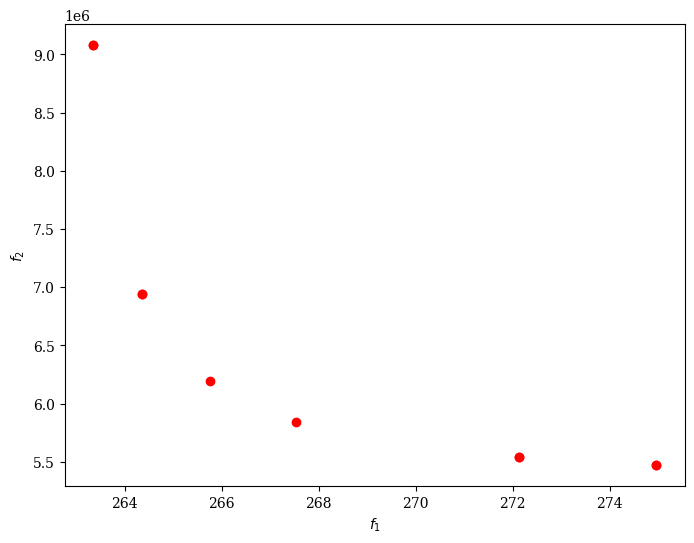
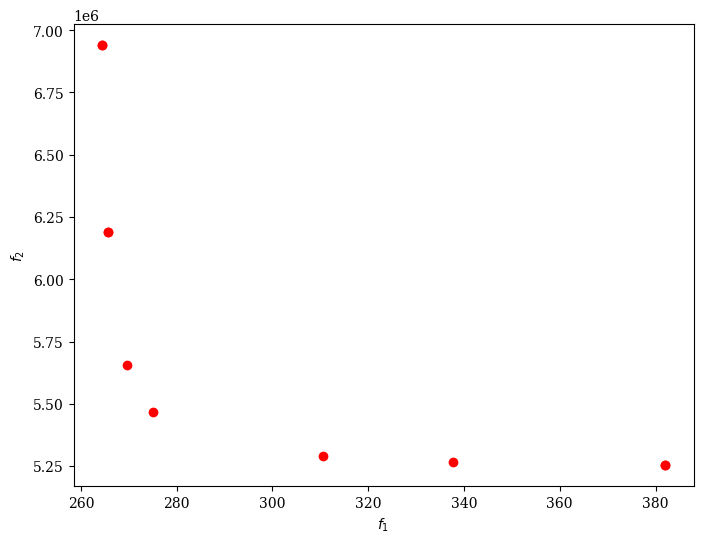
Continuous update of plot and new point generation

diff --git a/src/interactive_plot.py b/src/interactive_plot.py
@@ -1,23 +1,28 @@
-from dash import Dash, dcc, html, Input, Output
+import dash
+from dash import dcc, html, State
+from dash.dependencies import Input, Output
+import pandas as pd
 import plotly.express as px
+import os
 
-class PlotLauncher():
-    def __init__(self, df, x_axis: str, y_axis: str, sld_feat: list, color_feat: str, size_feat: str):
-        self.app = Dash("Dash app")
-        self.df = df
+class PlotLauncher:
+    def __init__(self, file_path: str, x_axis: str, y_axis: str, sld_feat: list, color_feat: str, size_feat: str):
+        self.app = dash.Dash("Dash app")
+        self.file_path = file_path
         self.x_axis = x_axis
         self.y_axis = y_axis
         self.sld_feat = sld_feat
         self.color_feat = color_feat
         self.size_feat = size_feat
 
+        # Load initial DataFrame
+        self.df = self.load_data()
+
         # Define the app layout
         self.app.layout = html.Div(
             [
-                html.H1(
-                    "Interactive scatter plot with Chiplet Design Results", 
-                    style={"textAlign": "center"}
-                ),
+                html.H1("Interactive Scatter Plot", style={"textAlign": "center"}),
+                
                 html.Div(
                     dcc.Graph(id="scatter-plot"), 
                     style={
@@ -27,69 +32,110 @@ class PlotLauncher():
                         "height": "600px",  # Adjust height as needed
                     },
                 ),
-                html.P(f"Filter by {self.sld_feat[0]}:", style={"textAlign": "center"}),
+
+                # Auto-reload every 5 seconds
+                dcc.Interval(id="interval-update", interval=5000, n_intervals=0),
+
+                # Sliders Container (Side by Side)
                 html.Div(
-                    dcc.RangeSlider(
-                        id="a-slider",
-                        min=min(self.df[self.sld_feat[0]]), # Adjust these values based on your data range
-                        max=max(self.df[self.sld_feat[0]]),
-                        step=0.01,
-                        marks={min(self.df[self.sld_feat[0]]): str(min(self.df[self.sld_feat[0]])), max(self.df[self.sld_feat[0]]): str(max(self.df[self.sld_feat[0]]))},
-                        value=[min(self.df[self.sld_feat[0]]), max(self.df[self.sld_feat[0]])],
-                    ),
+                    [
+                        # First Slider
+                        html.Div(
+                            [
+                                html.P(f"Filter by {self.sld_feat[0]}:", style={"textAlign": "center", "fontSize": 20}),
+                                dcc.RangeSlider(
+                                    id="a-slider",
+                                    min=min(self.df[self.sld_feat[0]]),
+                                    max=max(self.df[self.sld_feat[0]]),
+                                    step=0.01,
+                                    marks={
+                                        min(self.df[self.sld_feat[0]]): str(f"{min(self.df[self.sld_feat[0]]):.2f}"),
+                                        max(self.df[self.sld_feat[0]]): str(f"{max(self.df[self.sld_feat[0]]):.2f}")
+                                    },
+                                    value=[min(self.df[self.sld_feat[0]]), max(self.df[self.sld_feat[0]])],
+                                ),
+                            ],
+                            style={"width": "48%", "padding": "10px"}  # Each slider takes 48% width
+                        ),
+
+                        # Second Slider
+                        html.Div(
+                            [
+                                html.P(f"Filter by {self.sld_feat[1]}:", style={"textAlign": "center", "fontSize": 20}),
+                                dcc.RangeSlider(
+                                    id="b-slider",
+                                    min=min(self.df[self.sld_feat[1]]),
+                                    max=max(self.df[self.sld_feat[1]]),
+                                    step=0.01,
+                                    marks={
+                                        min(self.df[self.sld_feat[1]]): str(f"{min(self.df[self.sld_feat[1]]):.2f}"),
+                                        max(self.df[self.sld_feat[1]]): str(f"{max(self.df[self.sld_feat[1]]):.2f}")
+                                    },
+                                    value=[min(self.df[self.sld_feat[1]]), max(self.df[self.sld_feat[1]])],
+                                ),
+                            ],
+                            style={"width": "48%", "padding": "10px"}  # Same width as first slider
+                        ),
+                    ],
                     style={
-                        "padding-left": "80px",
-                        "padding-right": "80px",
+                        "display": "flex",
+                        "justifyContent": "space-between",  # Space between sliders
+                        "alignItems": "center",
+                        "width": "80%",  # Adjust width of the container
+                        "margin": "auto",  # Center the div
                     },
                 ),
-                html.P(f"Filter by {self.sld_feat[1]}:", style={"textAlign": "center"}),
-                html.Div(
-                    dcc.RangeSlider(
-                        id="b-slider",
-                        min=min(self.df[self.sld_feat[1]]), # Adjust these values based on your data range
-                        max=max(self.df[self.sld_feat[1]]),
-                        step=0.01,
-                        marks={min(self.df[self.sld_feat[1]]): str(min(self.df[self.sld_feat[1]])), max(self.df[self.sld_feat[1]]): str(max(self.df[self.sld_feat[1]]))},
-                        value=[min(self.df[self.sld_feat[1]]), max(self.df[self.sld_feat[1]])],
-                    ),
-                    style={
-                        "padding-left": "80px",
-                        "padding-right": "80px",
-                    },
-                ),
+
+                html.Div([
+                    "N_stack: ",
+                    dcc.Input(id="input-1", type="number"),
+                ]),
+                html.Div([
+                    "tsv_pitch: ",
+                    dcc.Input(id="input-2", type="number"),
+                ]),
+                html.Button(id='submit-button-state', n_clicks=0, children='Submit'),
+                html.Div(id="number-output"),
+
             ],
             style={
-                "width": "80%", # 80% width of the parent container
-                "margin": "0 auto", # Center horizontally
+                "width": "80%",
+                "margin": "0 auto",
                 "height": "auto",
-                "border": "1px solid #ccc", # Optional border
-                "padding": "50px", # Inner padding
-                "box-shadow": "2px 2px 10px rgba(0, 0, 0, 0.1)", # Optional shadow
+                "border": "1px solid #ccc",
+                "padding": "50px",
+                "box-shadow": "2px 2px 10px rgba(0, 0, 0, 0.1)",
             },
         )
 
-        # Callback that updates the scatter plot based on the slider values
+        # Callback that updates the scatter plot
         @self.app.callback(
             Output("scatter-plot", "figure"),
-            [Input("a-slider", "value"),
-             Input("b-slider", "value")]
+            [
+                Input("a-slider", "value"),
+                Input("b-slider", "value"),
+                Input("interval-update", "n_intervals"),  # Auto-refresh trigger
+            ],
         )
-        def update_scatter_plot(a_range, b_range):
-            # Unpack the slider ranges
+        def update_scatter_plot(a_range, b_range, n_intervals):
+            # Reload the DataFrame every interval
+            df = self.load_data()
+
+            # Unpack slider values
             a_low, a_high = a_range
             b_low, b_high = b_range
 
-            # Create a mask that filters based on petal width and petal length
+            # Apply filtering
             mask = (
-                (self.df[self.sld_feat[0]] > a_low) & 
-                (self.df[self.sld_feat[0]] < a_high) &
-                (self.df[self.sld_feat[1]] > b_low) & 
-                (self.df[self.sld_feat[1]] < b_high)
+                (df[self.sld_feat[0]] > a_low) & 
+                (df[self.sld_feat[0]] < a_high) &
+                (df[self.sld_feat[1]] > b_low) & 
+                (df[self.sld_feat[1]] < b_high)
             )
 
-            # Create the scatter plot with the filtered data
+            # Create scatter plot
             fig = px.scatter(
-                self.df[mask],
+                df[mask],
                 x=self.x_axis,
                 y=self.y_axis,
                 color=self.color_feat,
@@ -97,13 +143,75 @@ class PlotLauncher():
                 hover_data=df.columns,
             )
 
-            # Update layout settings (optional)
-            fig.update_layout(
-                width=800,
-                height=600,
-            )
-
+            fig.update_layout(width=800, height=600)
             return fig
+        
+        # callback that updates the scatter plot based on user input
+        @self.app.callback(Output('number-output', 'children'),
+              Input('submit-button-state', 'n_clicks'),
+              State('input-1', 'value'),
+              State('input-2', 'value'))
+        def update_output(n_clicks, input1, input2):
+            if n_clicks == 0:
+                return ''
+            N_stack = input1
+            tsv_pitch = input2
+            crossbar_size = 1024
+            N_tile = 36
+            N_tier = 3
+            N_pe = 1
+            f_core = 1
+            f_noc = 5
+            place_method = 2
+            route_method = 1
+            percent_router = 1
+            W2d = 32
+            router_times_scale = 1
+            ai_model = 'densenet121'
+            chip_arch = 'M3D'
+            os.system('python submodules/HISIM/HISIM-IMC/analy_model.py --xbar_size %d \
+                --N_stack %d\
+                --N_tile %d \
+                --N_tier %d \
+                --N_pe %d \
+                --freq_computing %f \
+                --fclk_noc %f \
+                --placement_method %d \
+                --routing_method %d\
+                --percent_router %f\
+                --tsvPitch %f \
+                --chip_architect %s\
+                --W2d %d\
+                --router_times_scale %d\
+                --ai_model %s ' %(int(crossbar_size), int(N_stack), int(N_tile),int(N_tier),int(N_pe),float(f_core),float(f_noc),float(place_method),float(route_method),float(percent_router),float(tsv_pitch), str(chip_arch), int(W2d), int(router_times_scale), str(ai_model)))
+                # Read the output from the file
+            with open('Results/PPA.csv', 'r') as file:
+                data = file.readlines()
+                last_line = data[-1].strip().split(',')
+                # power = float(last_line[11])/float(last_line[10])*pow(10,-3) # watts I think
+                # print("Power: ", power)
+                area = float(last_line[13]) # mm^2
+                networkLatency = float(last_line[18]) # ns
+                print("Area: ", area)
+                print("Network Latency: ", networkLatency)
+            return f'''
+                Area: {area:.2f},\n
+                Network Latency: {networkLatency:.2f}
+            '''
+
+    def load_data(self):
+        """Loads the latest data from CSV."""
+        try:
+            df = pd.read_csv(self.file_path)
+            return df
+        except Exception as e:
+            print(f"Error loading data: {e}")
+            return self.df  # Return last known dataframe if error occurs
 
     def run(self):
+        """Runs the Dash app."""
         self.app.run_server(debug=True)
+
+if __name__ == "__main__":
+    app = PlotLauncher("Results/PPA.csv", "chip area (mm2)", "network_latency (ns)", ["3d NoC latency (ns)", "W3d"], "chip_Architecture", "W3d")
+    app.run()

diff --git a/src/GAPrototype.py b/src/GAPrototype.py
@@ -6,8 +6,6 @@ from pymoo.algorithms.moo.nsga2 import NSGA2
 from pymoo.optimize import minimize
 from pymoo.visualization.scatter import Scatter
 
-from interactive_plot import PlotLauncher
-
 # Problem definition based on the following, from submodules/HISIM/HISIM-IMC/run.py mode 1
 
     # crossbar_size=[1024] 
@@ -99,9 +97,7 @@ class MyProblem(ElementwiseProblem):
             out["F"] = [area, networkLatency]
             print("Output Numbers: ", out["F"])
 
-compute_ga = False
-
-if compute_ga:
+if __name__ == "__main__":
     problem = MyProblem()
 
     algorithm = NSGA2(pop_size=10)
@@ -114,14 +110,4 @@ if compute_ga:
     plot = Scatter()
     plot.add(res.F, color="red")
     plot.save("Results/output.png")
-
-# Get data from csv
-df = pd.read_csv('Results/PPA.csv')
-
-# Erase placement method column
-df = df.drop(columns=['placement_method'])
-
-# Create plot
-plot = PlotLauncher(df, "chip area (mm2)", "network_latency (ns)", ["3d NoC latency (ns)", "W3d"], "chip_Architecture", "W3d")
-plot.run()
 
